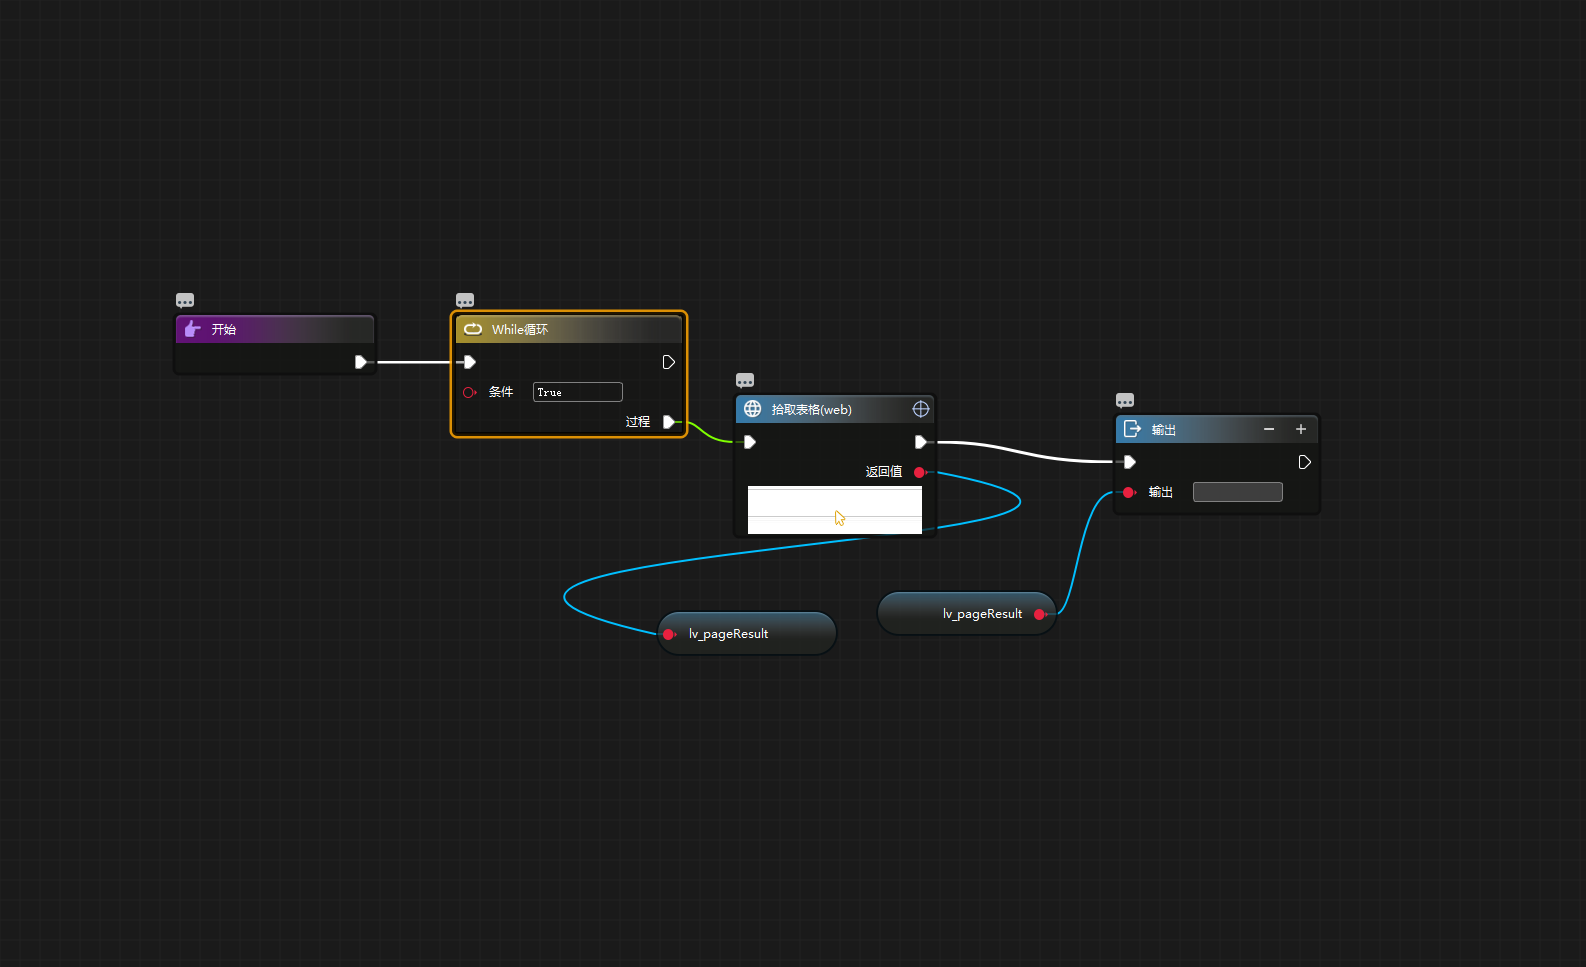
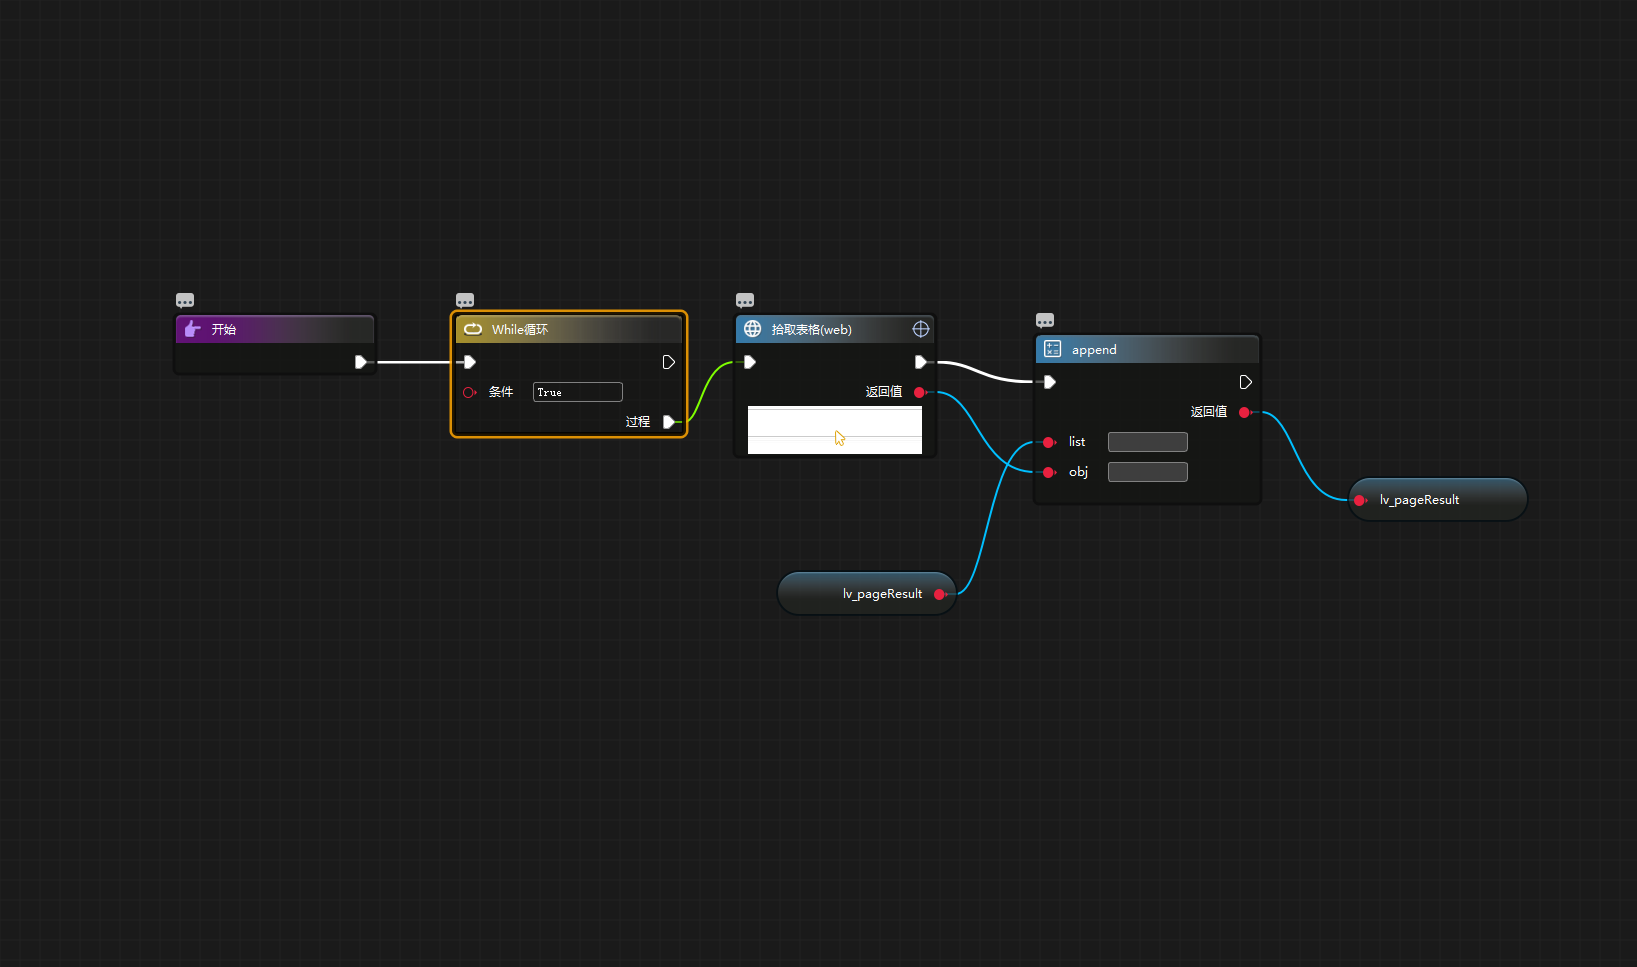
20200508145437

diff --git a/codes/Main.py b/codes/Main.py
@@ -1,5 +1,5 @@
 # coding=utf-8
-# 编译日期：2020-05-08 14:53:12
+# 编译日期：2020-05-08 14:54:37
 # 版权所有：www.i-search.com.cn
 import time
 import pdb
@@ -11,7 +11,7 @@ import sys
 import ubpa.ibrowse as ibrowse
 import ubpa.iie as iie
 import ubpa.ikeyboard as ikeyboard
-import ubpa.itools.rpa_str as rpa_str
+import ubpa.itools.rpa_fun as rpa_fun
 
 class YeHongJun_KaoShi:
      
@@ -39,10 +39,10 @@ class YeHongJun_KaoShi:
         while True:
             # IE拾取表格(web)
             self.__logger.debug('Flow:GetData,StepNodeTag:0814522186952,Note:')
-            lv_pageResult = iie.get_ie_table(title=r'理财管理',selector=r'#boxTable',waitfor=10)
-            # 输出
-            self.__logger.debug('Flow:GetData,StepNodeTag:0814525847857,Note:')
-            rpa_str.iprints(lv_pageResult)
+            tvar0814522186952 = iie.get_ie_table(title=r'理财管理',selector=r'#boxTable',waitfor=10)
+            #append
+            self.__logger.debug('Flow:GetData,StepNodeTag:0814540765462,Note:')
+            lv_pageResult = rpa_fun.list_append(list=lv_pageResult,obj=tvar0814522186952)
       
     def LoginCSM(self):
         password='TVlUqIwIyp0eXB=='

diff --git a/codes/Main_d.py b/codes/Main_d.py
@@ -1,5 +1,5 @@
 # coding=utf-8
-# 编译日期：2020-05-08 14:53:12
+# 编译日期：2020-05-08 14:54:37
 # 版权所有：www.i-search.com.cn
 import time
 import pdb
@@ -11,7 +11,7 @@ import sys
 import ubpa.ibrowse as ibrowse
 import ubpa.iie as iie
 import ubpa.ikeyboard as ikeyboard
-import ubpa.itools.rpa_str as rpa_str
+import ubpa.itools.rpa_fun as rpa_fun
 
 class YeHongJun_KaoShi:
      
@@ -39,10 +39,10 @@ class YeHongJun_KaoShi:
         while True:
             # IE拾取表格(web)
             self.__logger.debug('Flow:GetData,StepNodeTag:0814522186952,Note:')
-            lv_pageResult = iie.get_ie_table(title=r'理财管理',selector=r'#boxTable',waitfor=10)
-            # 输出
-            self.__logger.debug('Flow:GetData,StepNodeTag:0814525847857,Note:')
-            rpa_str.iprints(lv_pageResult)
+            tvar0814522186952 = iie.get_ie_table(title=r'理财管理',selector=r'#boxTable',waitfor=10)
+            #append
+            self.__logger.debug('Flow:GetData,StepNodeTag:0814540765462,Note:')
+            lv_pageResult = rpa_fun.list_append(list=lv_pageResult,obj=tvar0814522186952)
       
     def LoginCSM(self):
         password='TVlUqIwIyp0eXB=='
